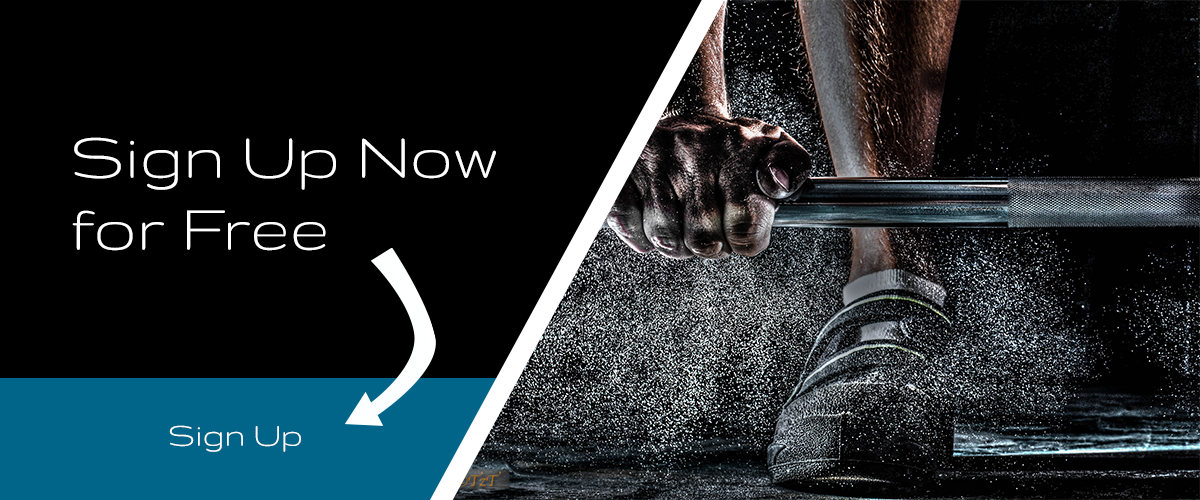
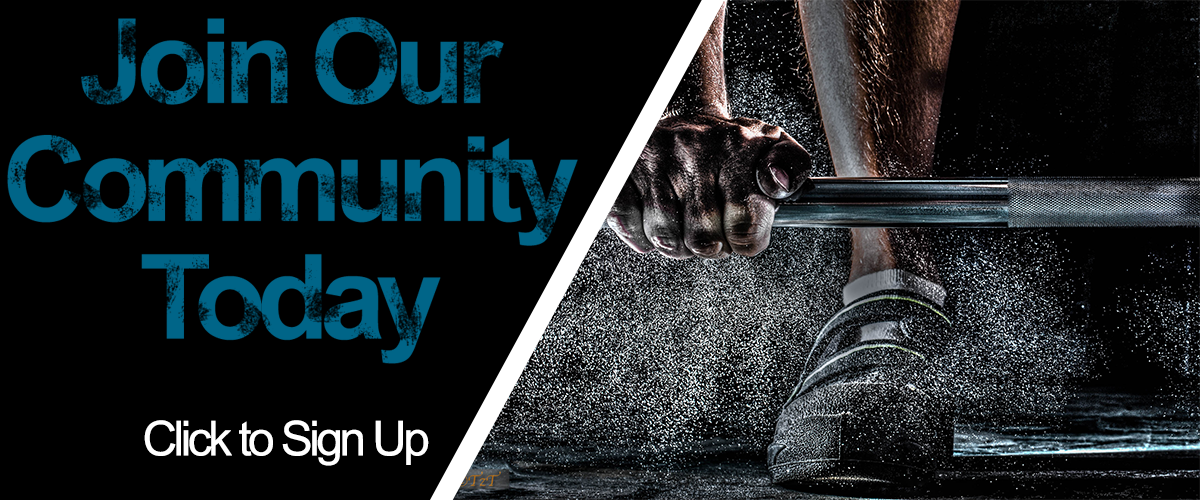
Redesigned carousel on home page

Changed region(s): [[0.0, 0.27, 0.4933, 1.0], [0.0617, 0.03, 0.4317, 0.21]]

diff --git a/resources/views/master.blade.php b/resources/views/master.blade.php
@@ -25,7 +25,7 @@
 	<script src="https://maxcdn.bootstrapcdn.com/bootstrap/3.3.4/js/bootstrap.min.js"></script>
 </head>
 <body> 
-	<ul class="list-group">
+	<ul class="list-group content">
 	  <li class="list-group-item list-group-item-warning">Bodshift.com is in <strong>Beta Test Mode</strong>. Please contact us if you find any problems within the site. Thank You!!</li>
 	</ul>
 	<!--Page Wrapper Starts-->
